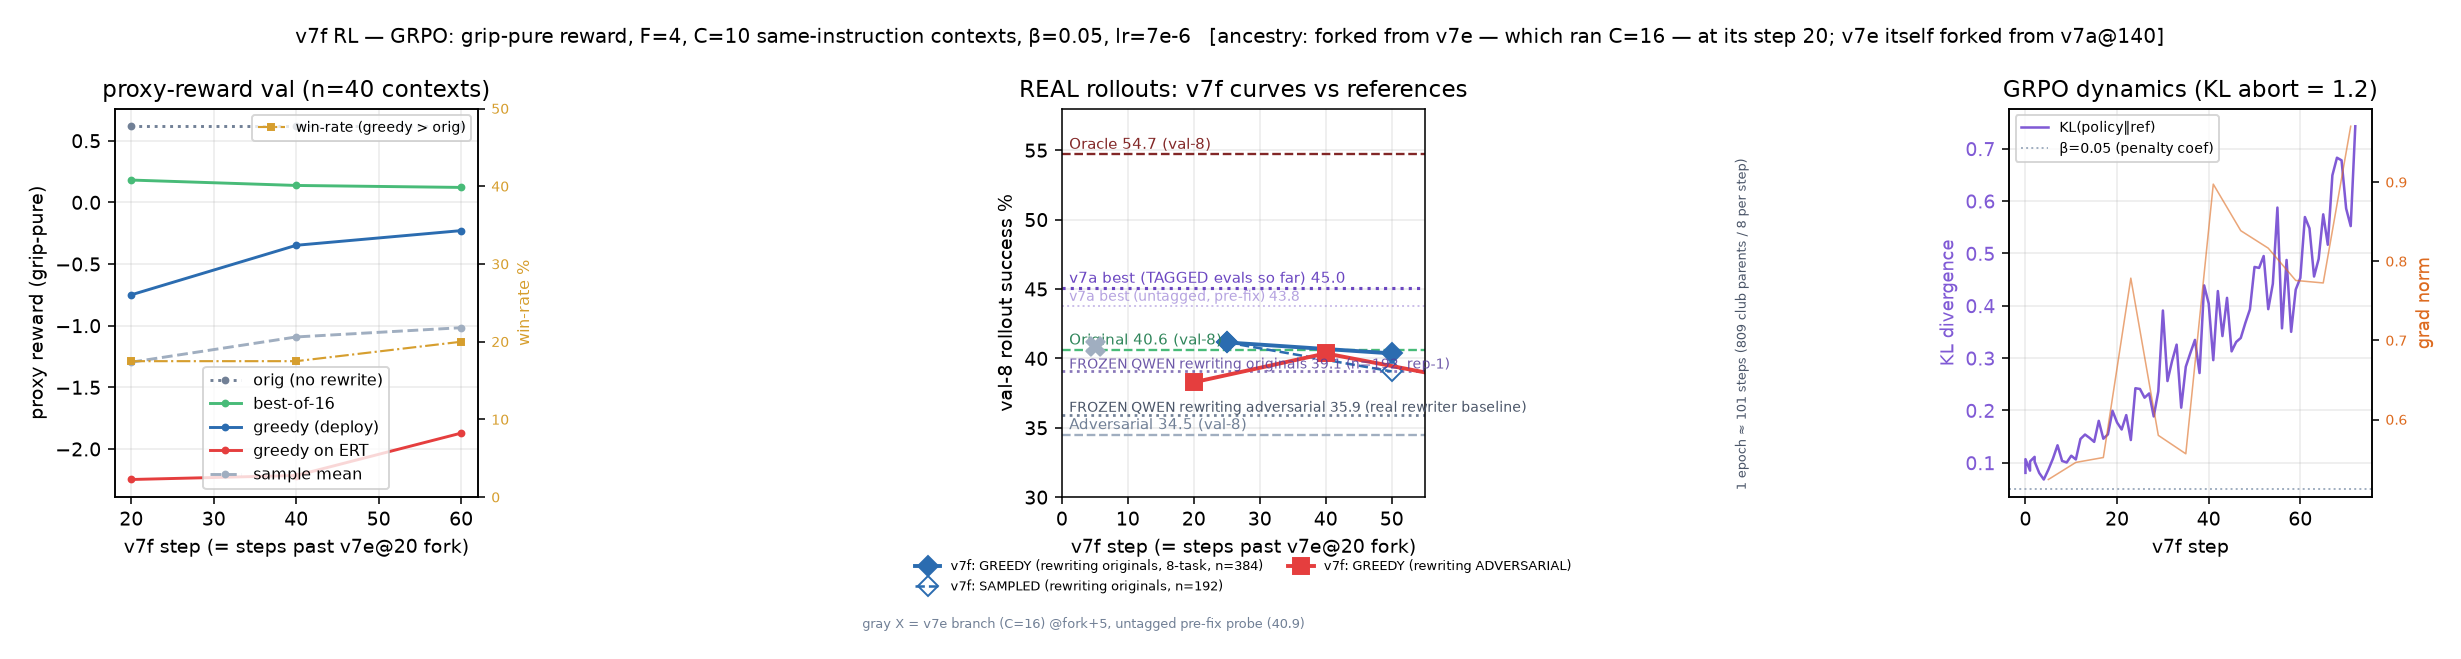
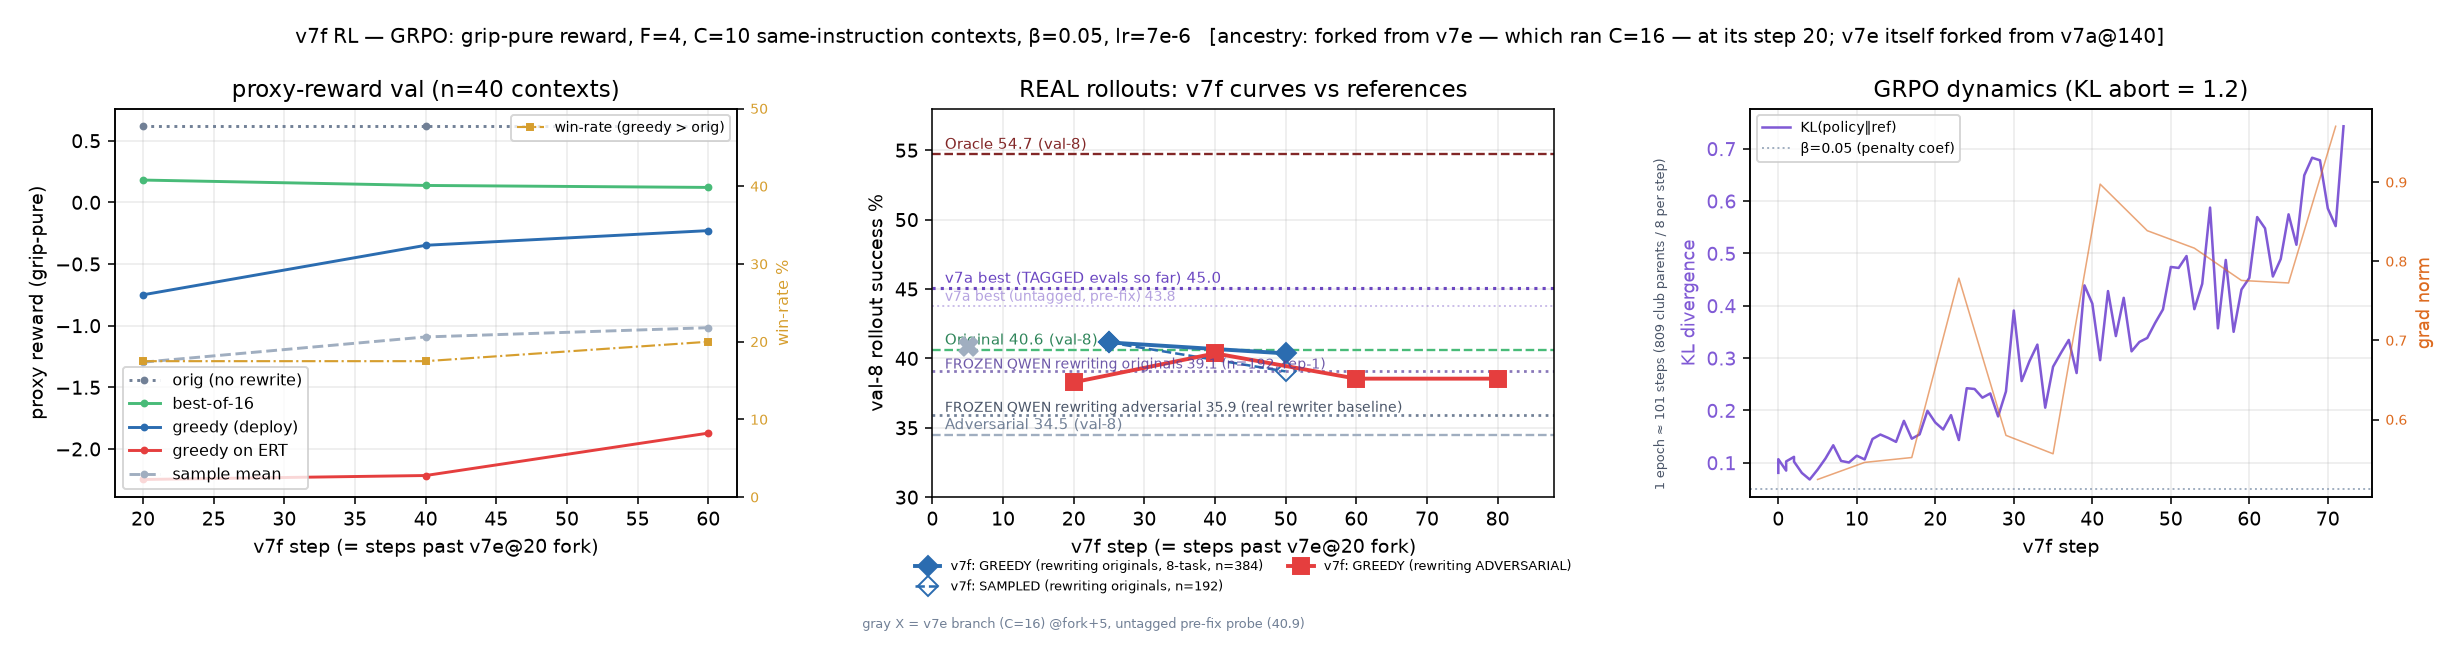
v7f chart: xlim covers adv steps (60/80 were clipped); roller interleaves by step

diff --git a/scripts/make_v7f_progress.py b/scripts/make_v7f_progress.py
@@ -85,7 +85,9 @@ a1.set_ylabel("proxy reward (grip-pure)")
 a1.set_title("proxy-reward val (n=40 contexts)")
 a1.grid(alpha=0.25)
 
-a2.set_xlim(0, max([c["step"] for c in curve] + [30]) + 5)
+_adv_steps = [c["step"] for c in _merged("results/analysis/v7f_adv_curve.jsonl",
+                                         "results/analysis/v7f_adv_curve_rep1.jsonl")]
+a2.set_xlim(0, max([c["step"] for c in curve] + _adv_steps + [30]) + 8)
 tr = a2.get_yaxis_transform()  # x in axes fraction, y in data units
 a2.axhline(54.7, ls="--", color="#822727", lw=1.2)
 a2.axhline(40.6, ls="--", color="#48bb78", lw=1.2)
